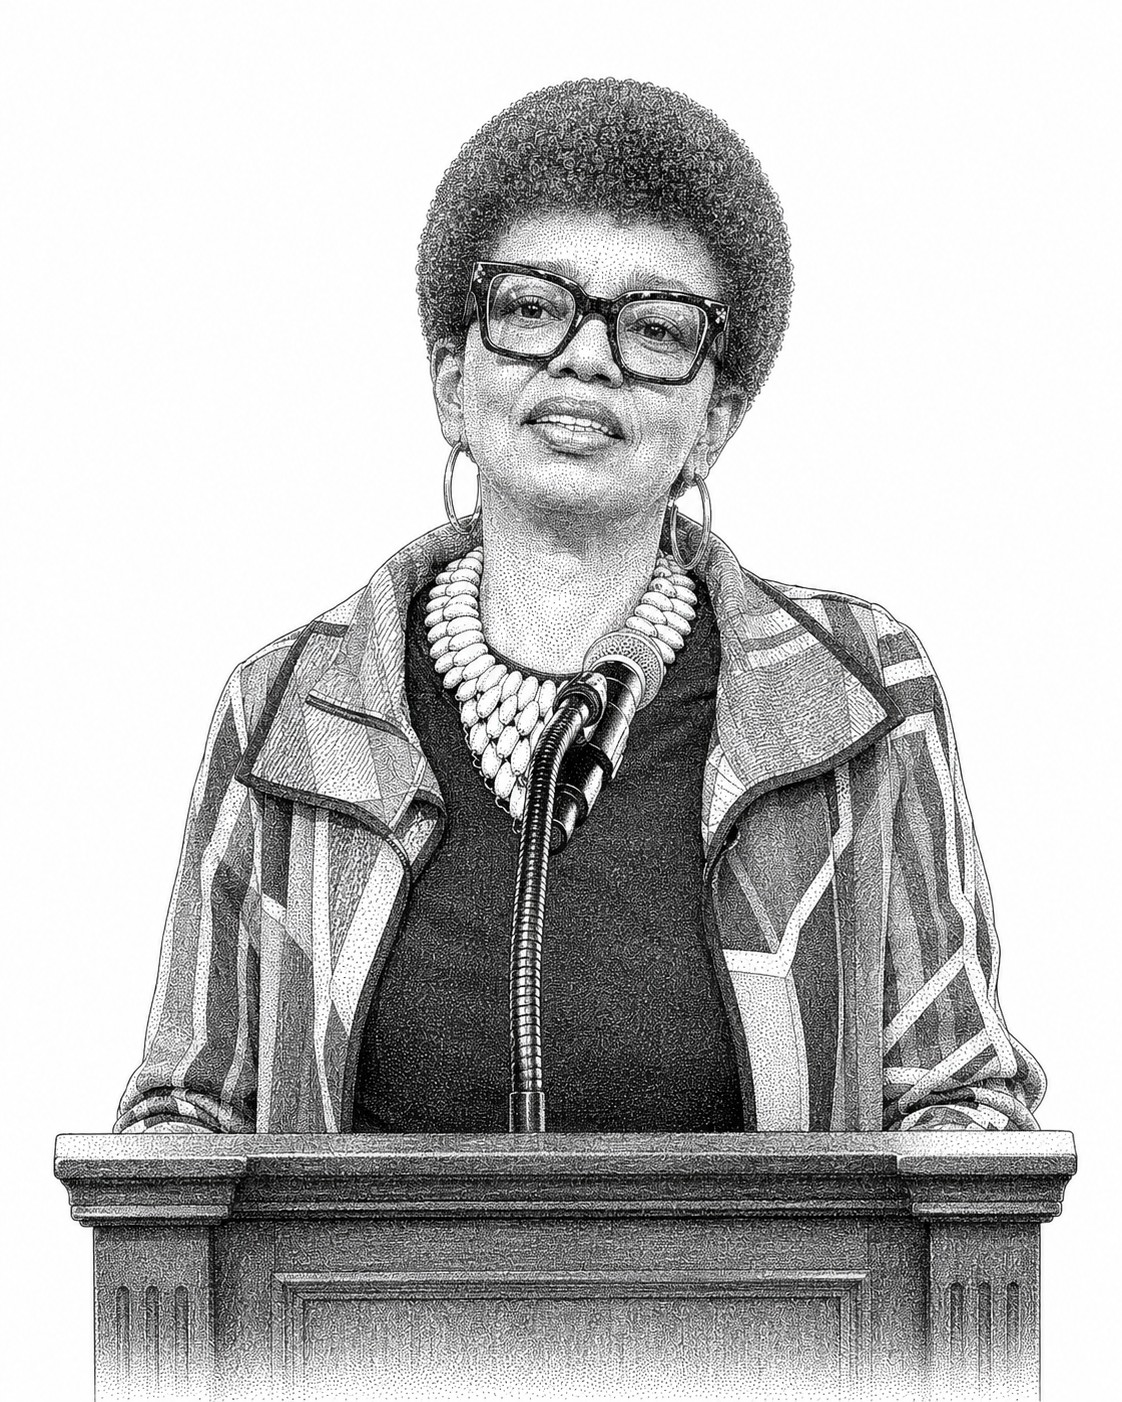
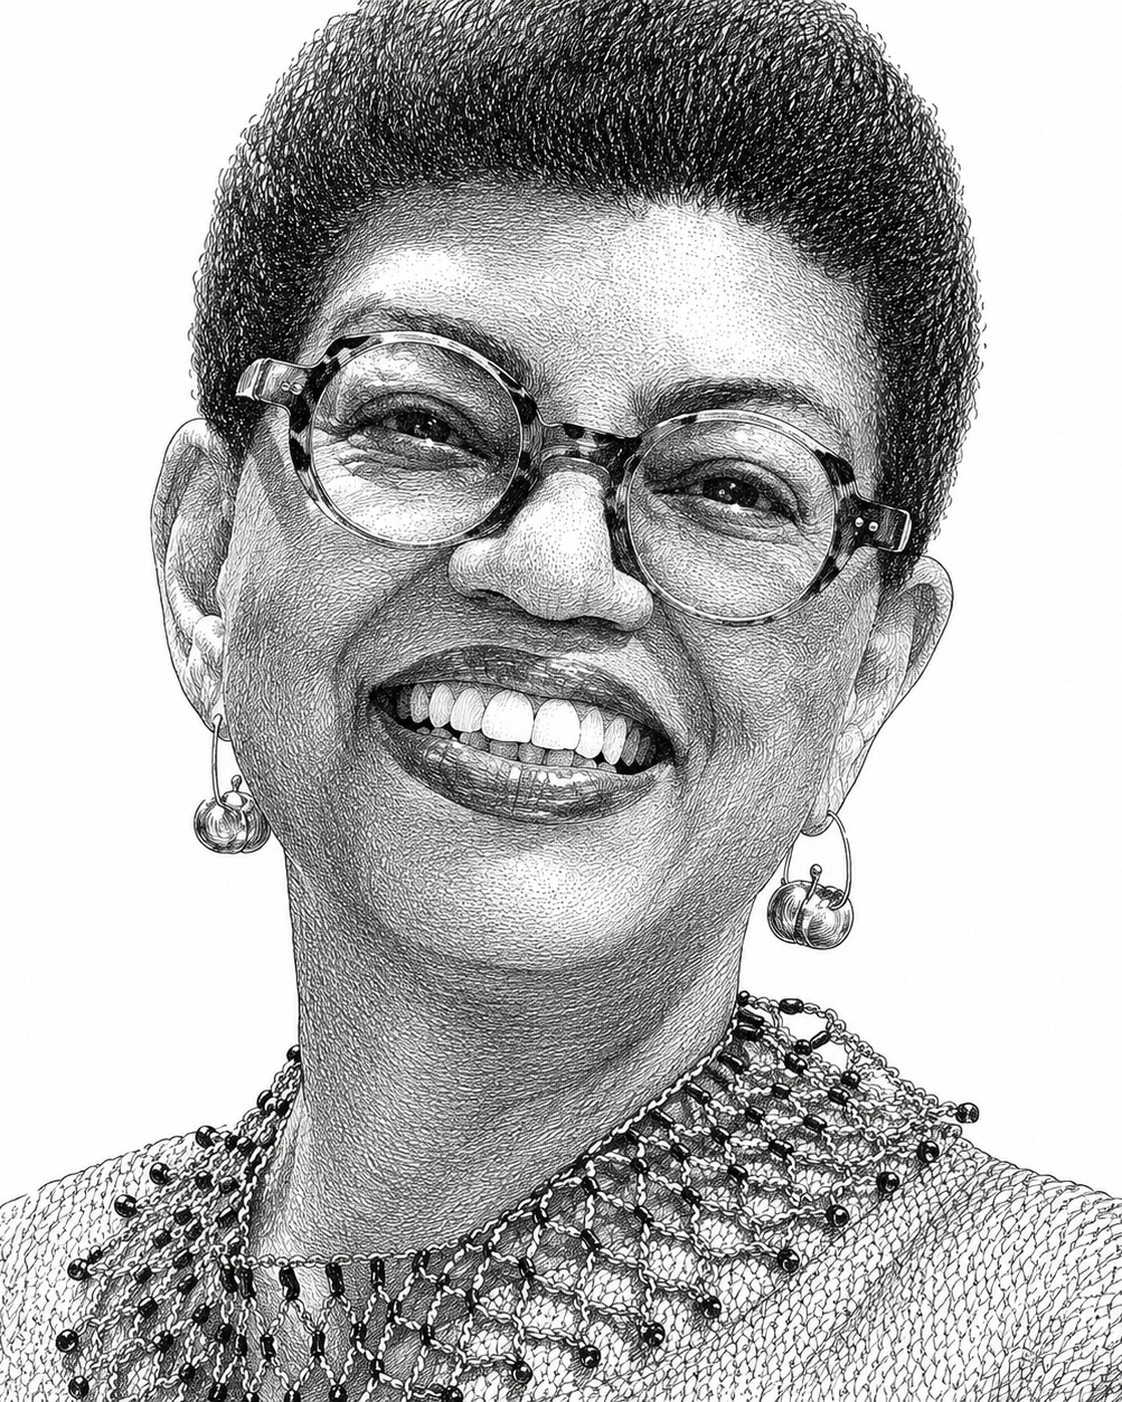
feat: nouveau portrait Marilyn Séphocle (macaron + entretien) et ajout de sa fiche contributeurs

diff --git a/app/contributeurs/page.tsx b/app/contributeurs/page.tsx
@@ -58,6 +58,14 @@ const contributeurs = [
     portrait: '/portraits/vincent.jpg',
     linkedin: 'https://www.linkedin.com/in/majda-vincent-59641442/',
   },
+  {
+    name: 'Marilyn Séphocle',
+    role: 'Contributrice · Diaspora & Géopolitique',
+    bio: 'Martiniquaise installée à Washington, professeure à Howard University et fondatrice de la Women Ambassadors Foundation. Elle observe la diaspora noire des Amériques, les présidences américaines et le réflexe colonial français.',
+    domaines: ['Géopolitique', 'Société', 'Diaspora'],
+    portrait: '/portraits/sephocle.jpg',
+    linkedin: null,
+  },
 ]
 
 function initials(name: string) {